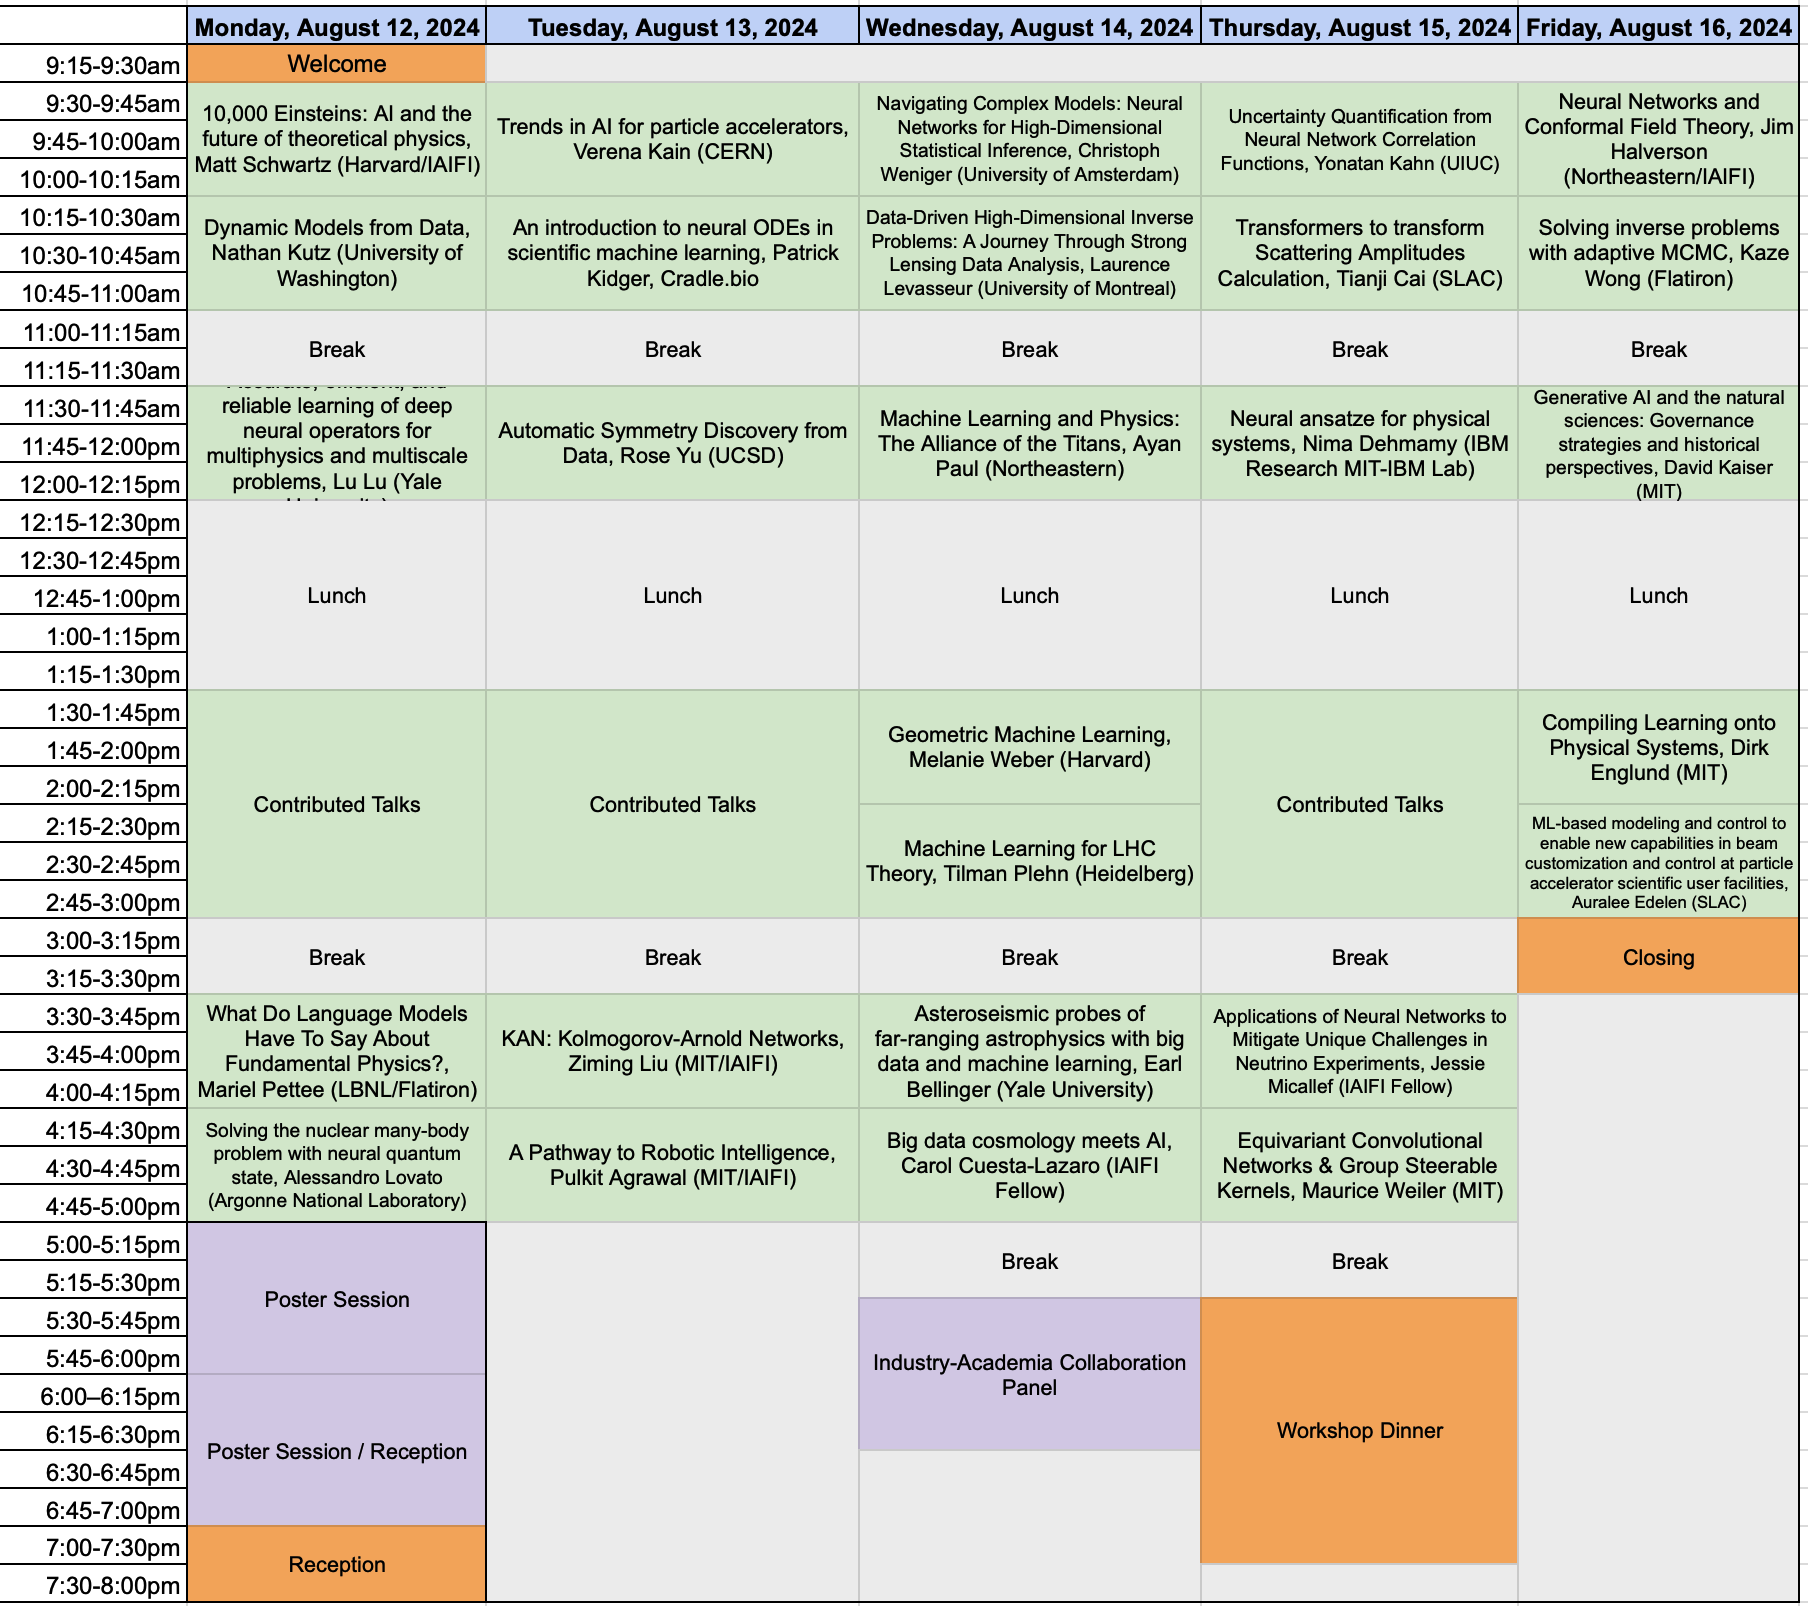
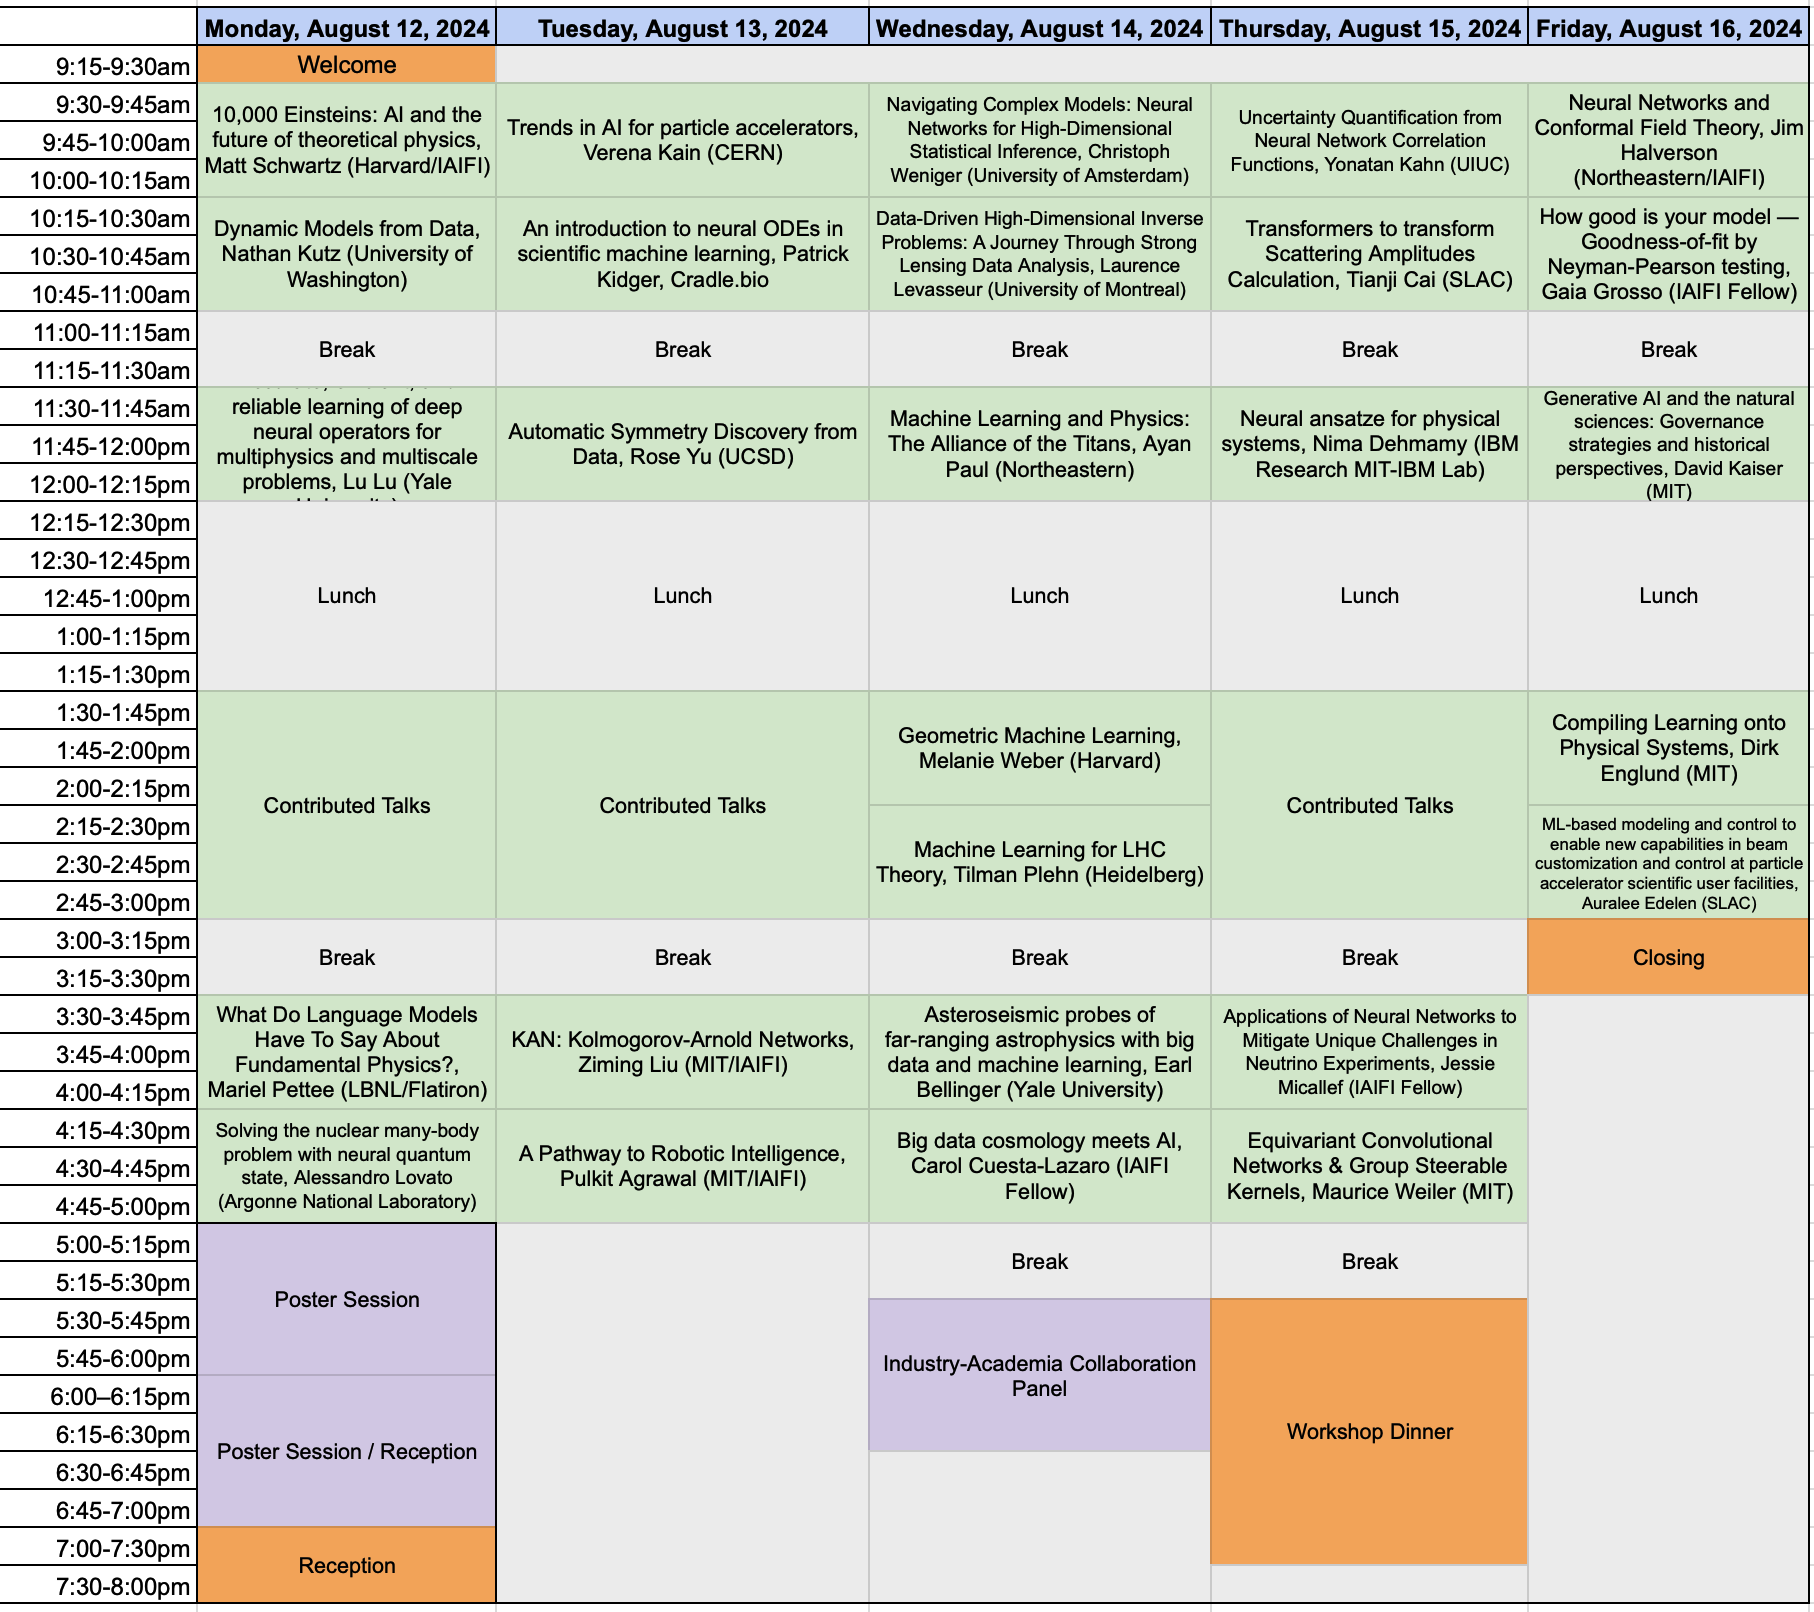
Adding Gaia

diff --git a/summer-workshop.md b/summer-workshop.md
@@ -626,13 +626,13 @@ Jim Halverson, Northeastern/IAIFI
 
 **10:15–11:00 am ET**
 
-*Solving inverse problems with adaptive MCMC*
+*How good is your model — Goodness-of-fit by Neyman-Pearson testing*
 
-Kaze Wong, Flatiron
+Gaia Grosso, IAIFI Fellow
 
 <details>
 <summary>Abstract</summary>
-<em>Solving inverse problems is one of the most common tasks in natural science, which involves estimating the probability distribution of some parameters of interest given some data. MCMC has been the main workhorse in solving inverse problems for decades now. However, the relative inefficiency of MCMC compared to other methods such as simulation-based inference makes them not suitable for many modern datasets. In this talk, I will talk about adaptive MCMC, which combines MCMC and neural networks to improve the efficiency of MCMC while maintaining their guarantee.</em>
+<em>The Neyman-Pearson strategy for hypothesis testing can be employed for goodness-of-fit if the alternative hypothesis is selected from data by exploring a rich parametrised family of models. The New Physics Learning Machine (NPLM) methodology has been developed as a concrete implementation of this idea, to target the detection of new physical effects in multidimensional and unbinned collider data. The applications of the Neyman-Pearson test as a goodness-of-fit method extend beyond new physics discovery, to problems of data quality monitoring and, crucially, generative models validation. In this talk I will discuss the main challenges behind the practical use of the Neyman-Pearson strategy in real setups, such as model selection, uncertainty quantification and scalability, and I will present recent solutions and future prospect to tackle them.</em>
 </details>
 
 **11:00-11:30 am ET**
@@ -771,6 +771,18 @@ Closing
          </div>
        </div>
 
+    <div class="card" style="width: 17rem; height: 20rem; justify-content: center;">
+         <img class="my-card-img-top" src="images/small-photo-gaia-grosso.jpg" alt="Gaia Grosso" height="210rem" style="object-fit: cover;">
+         <div class="card-body d-flex flex-column">
+         <div class="card-text" style="text-align: center; min-height: 2rem;">
+         <a href="https://iaifi.org/current-fellows.html#gaia-grosso">Gaia Grosso</a>
+         </div>
+         <div class="card-text" style="text-align: center; min-height: 4rem; line-height: 140%">
+         <em> IAIFI Fellow </em> <br>
+         </div>
+         </div>
+       </div>
+       
     <div class="card" style="width: 17rem; height: 20rem; justify-content: center;">
          <img class="my-card-img-top" src="images/small-photo-jim-halverson.jpg" alt="Jim Halverson" height="210rem" style="object-fit: cover;">
          <div class="card-body d-flex flex-column">
@@ -983,18 +995,6 @@ Closing
          </div>
          <div class="card-text" style="text-align: center; min-height: 4rem; line-height: 140%">
          <em> Associate Professor, University of Amsterdam </em> <br>
-         </div>
-         </div>
-       </div>
-
-    <div class="card" style="width: 17rem; height: 20rem; justify-content: center;">
-         <img class="my-card-img-top" src="images/small-photo-kaze-wong.jpg" alt="Kaze Wong" height="210rem" style="object-fit: cover;">
-         <div class="card-body d-flex flex-column">
-         <div class="card-text" style="text-align: center; min-height: 2rem;">
-         <a href="https://www.simonsfoundation.org/people/kaze-wong/">Kaze Wong</a>
-         </div>
-         <div class="card-text" style="text-align: center; min-height: 4rem; line-height: 140%">
-         <em> Research Fellow, Flatiron Institute/CCA </em> <br>
          </div>
          </div>
        </div>
